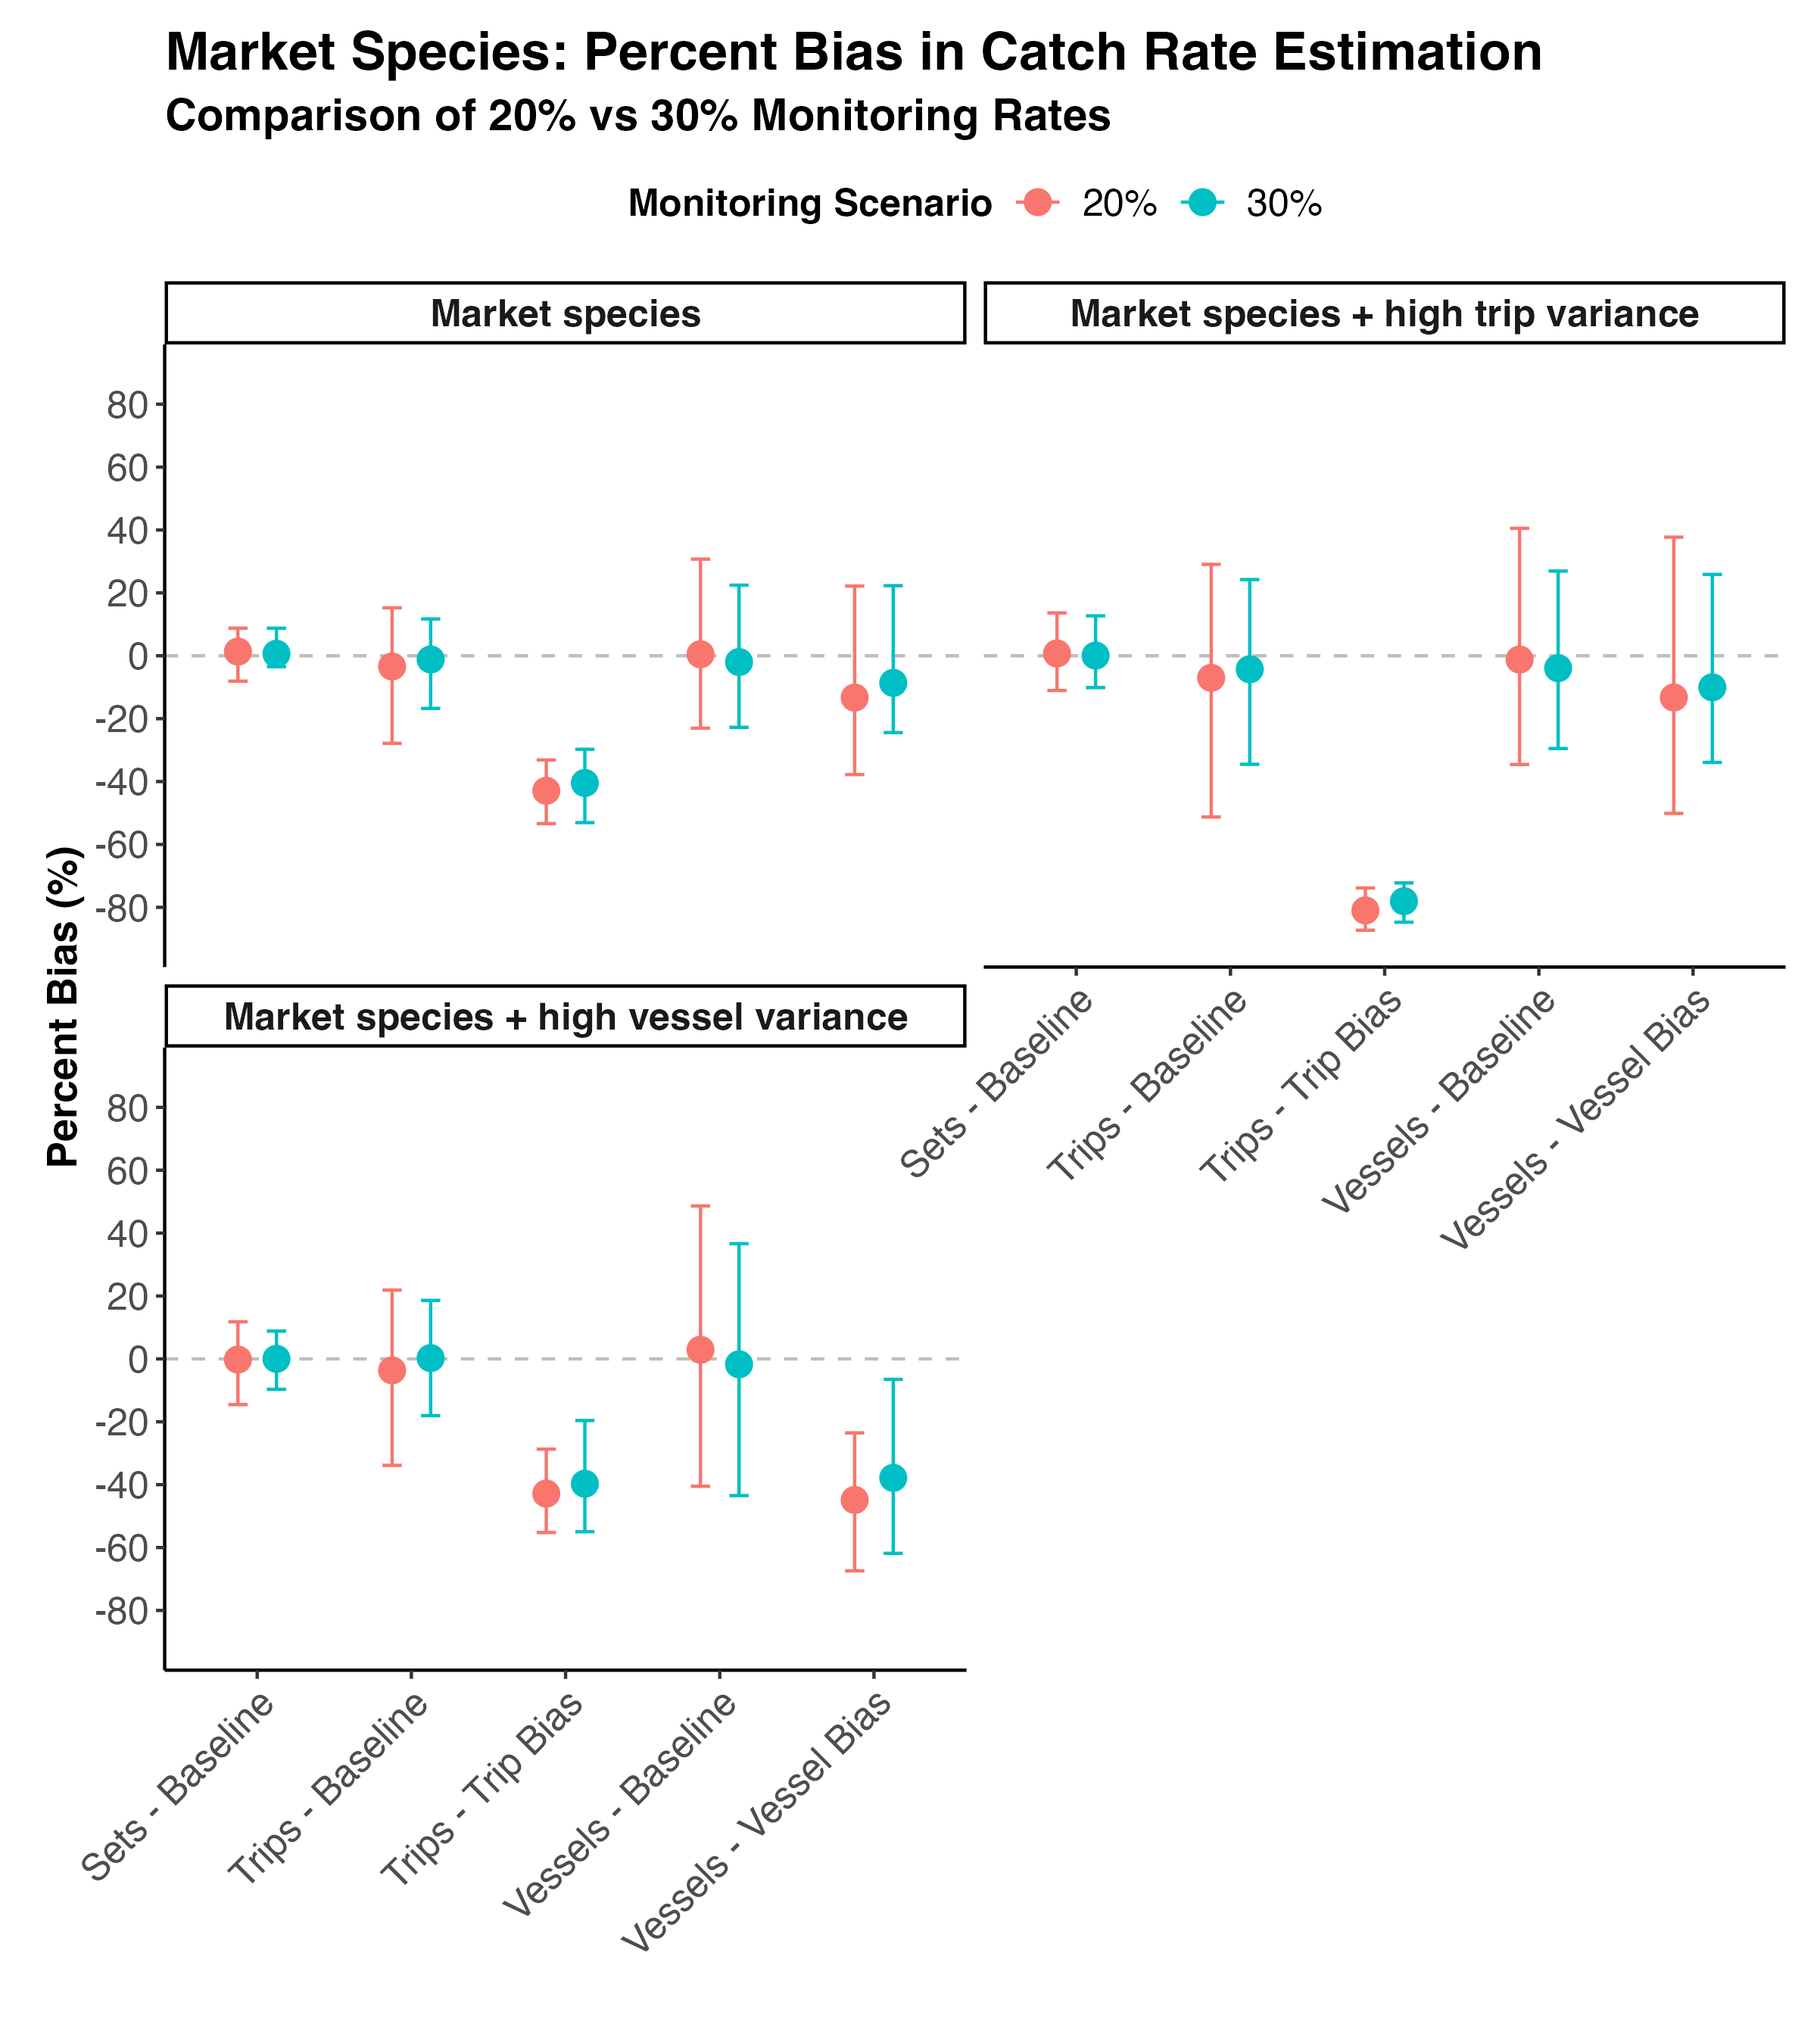
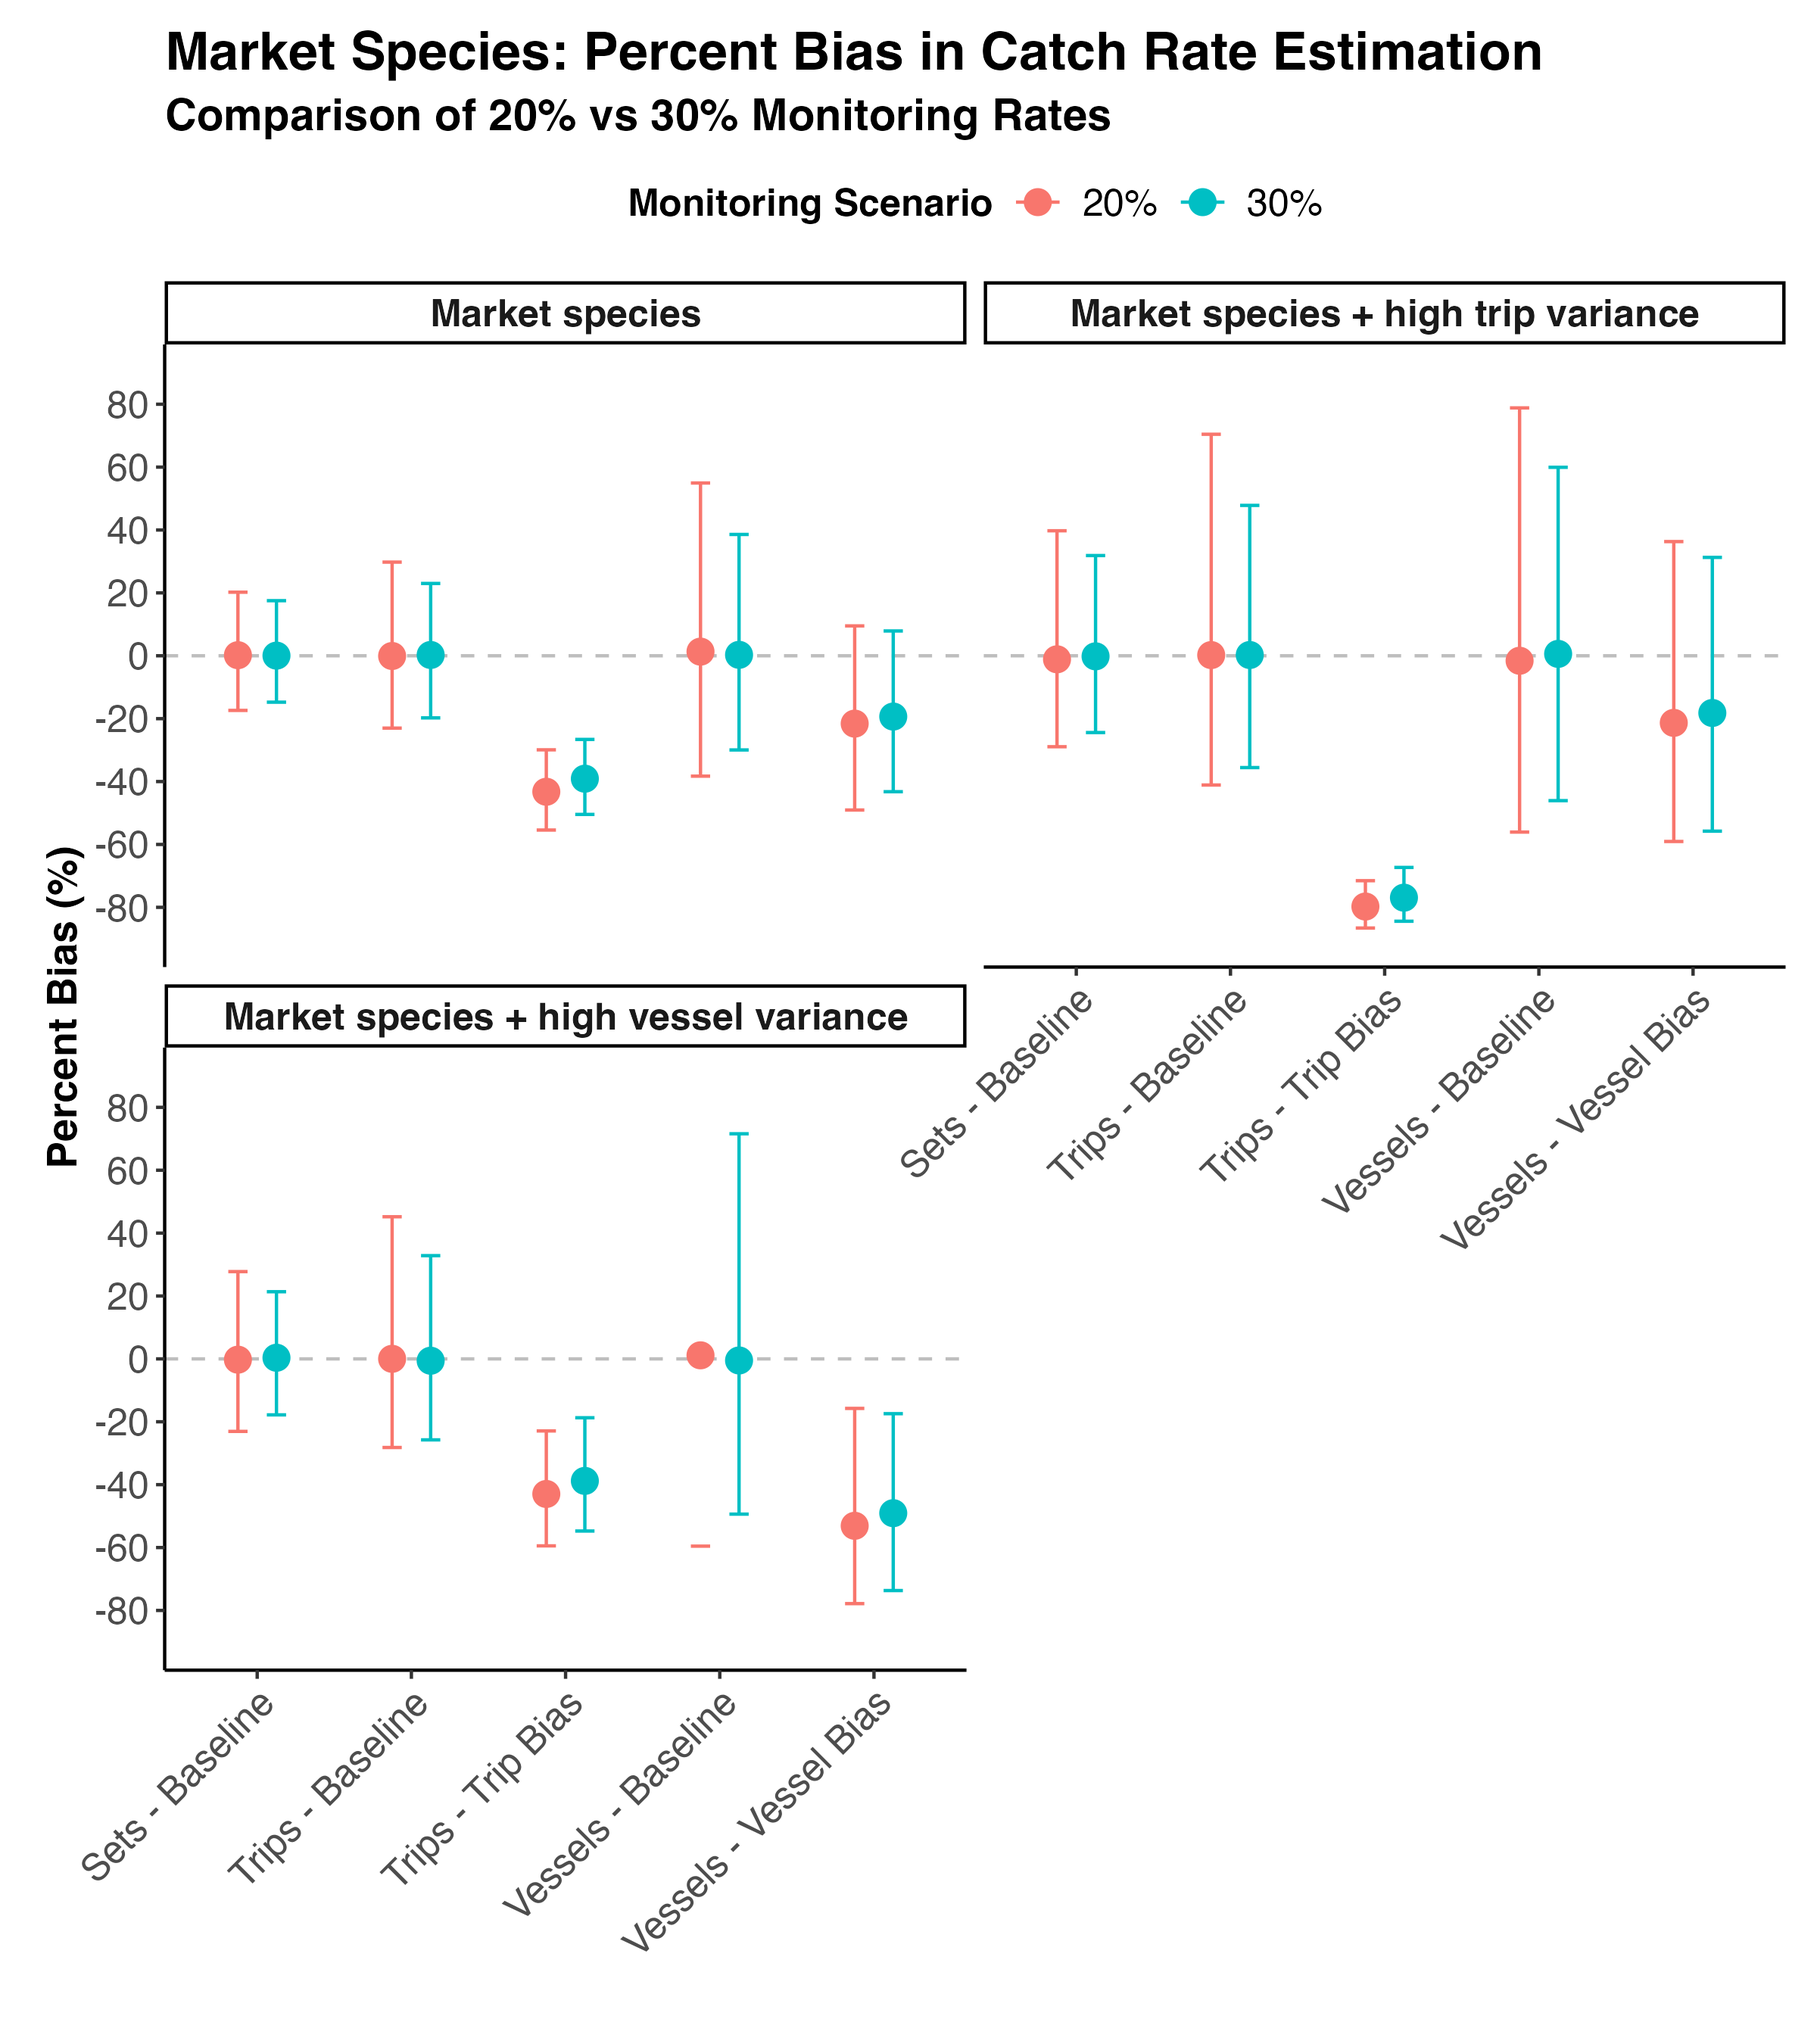
update readme file

diff --git a/README.md b/README.md
@@ -77,6 +77,7 @@ The monitoring module determines how monitoring of catches is distributed across
 - Total amount of monitoring (percentage of fishing sets monitored)
 - Distribution of monitoring across fleet components, with option for bias
 - Coverage within selected units (percentage of trips/sets monitored within selected vessels)
+- Proportion of sets to select within each monitored unit (vessel/trip)
 
 The monitoring module was formulated as follows:
 
@@ -85,7 +86,7 @@ The monitoring module was formulated as follows:
 # Strategy 1 sampling across sets
 #matrix for storing monitoring status
 M_sets = matrix(V,T,S)
-phi_sets = logit(p_monitor)
+phi_sets = logit(p_monitor * p_sets_select)
 M_sets[v,t,s] ~ dbern(inverse_logit(phi))
 
 # Strategy 2 sampling random vessels
@@ -93,14 +94,17 @@ M_vessels = matrix(V,T,S)
 phi_vessels = array(dim=c(V,T,S))
 for (v in 1:V) {
   phi_vessels[v,,] = logit(p_monitor) + bias_v * x[v]
+  # Then select p_sets_select proportion within monitored vessels
 }
 M_vessels[v,t,s] ~ dbern(inverse_logit(phi_vessels[v,t,s]))
+
 # Strategy 3: Random selection of trips within vessels
 M_trips = matrix(V,T,S)
 phi_trips = array(dim=c(V,T,S))
 for (v in 1:V) {
   for (t in 1:T[v]) {
     phi_trips[v,t,] = logit(p_monitor) + bias_factor * z[v,t]
+    # Then select p_sets_select proportion within monitored trips
   }
 }
 M_trips[v,t,s] ~ dbern(inverse_logit(phi_trips[v,t,s]))
@@ -110,6 +114,7 @@ M_trips[v,t,s] ~ dbern(inverse_logit(phi_trips[v,t,s]))
 **Parameter Explanations:**
 - `M_sets`, `M_vessels`, `M_trips`: Matrices indicating monitoring status for each set under different strategies (1 = monitored, 0 = not monitored)
 - `p_monitor`: Base proportion of sets to be monitored (e.g., 0.3 for 30% coverage)
+- `p_sets_select`: Proportion of sets to select within each monitored vessel or trip (e.g., 0.2 to select 20% of sets within monitored units)
 - `phi_sets`, `phi_vessels`, `phi_trips`: Logit-transformed probabilities of monitoring for each strategy
 - `bias_v`: Bias factor for vessel-based selection (when > 0, vessels with lower catch rates are more likely selected)
 - `bias_factor`: Bias factor for trip-based selection (when > 0, trips with lower catch rates are more likely selected)
@@ -123,9 +128,14 @@ M_trips[v,t,s] ~ dbern(inverse_logit(phi_trips[v,t,s]))
 - logit_inverse(x) = 1/(1+exp(-x)) transforms logit values back to probabilities
 
 **Distribution Strategies:**
-- Random across sets: Each set has equal probability of being monitored
-- Random across vessels: Selected vessels have all their sets monitored
-- Random across trips within vessels: Selected trips have all their sets monitored
+- Random across sets: Each set has equal probability of being monitored (p_monitor * p_sets_select)
+- Random across vessels: Selected vessels have a proportion (p_sets_select) of their sets monitored
+- Random across trips within vessels: Selected trips have a proportion (p_sets_select) of their sets monitored
+
+**p_sets_select Parameter:**
+- When p_sets_select = 1: All sets within selected vessels/trips are monitored (traditional approach)
+- When p_sets_select < 1: Only a random subset of sets within selected vessels/trips are monitored
+- This parameter allows modeling partial monitoring within selected units, which may be more realistic for electronic monitoring systems
 
 ### Catch statistic estimation
 
@@ -154,23 +164,47 @@ Note we also drafted a report, however this draft was finalized on another platf
 
 #### R Scripts
 
-1. **`1_run_simulations.R`**
+1. **`1_conceptual_figure.R`**
+   - **Purpose**: Generates conceptual figures illustrating different monitoring strategies
+   - **Usage**: 
+     ```bash
+     Rscript 1_conceptual_figure.R
+     ```
+   - Creates visualizations that explain the conceptual framework of monitoring strategies and their impact on estimated catch rates.
+
+2. **`2_run_simulations.R`**
    - **Purpose**: Main script to run the full simulation with multiple parameter sets
    - **Usage**: 
      ```bash
-     Rscript 1_run_simulations.R
+     Rscript 2_run_simulations.R
      ```
-   - This script runs simulations for each parameter set defined in `parameters.csv`, with 250 replications per set. Results are saved to CSV files in the `/outputs/` directory.
+   - This script runs simulations for each parameter set defined in `parameters-species.csv` and `parameters-monitoring.csv`, with 250 replications per set. Results are saved to CSV files in the `/outputs/` directory.
 
-2. **`2_plots.R`**
-   - **Purpose**: Creates visualizations of the simulation results
+3. **`3_plots-main.R`**
+   - **Purpose**: Creates the main visualizations of the simulation results
    - **Usage**:
      ```bash
-     Rscript 2_plots.R
+     Rscript 3_plots-main.R
      ```
-   - Generates various plots showing bias in catch rate estimation across different monitoring strategies and saves them to the `/plots/` directory.
+   - Generates the primary plots showing bias in catch rate estimation across different monitoring strategies and saves them to the `/plots/` directory.
 
-3. **`simulation_functions.R`**
+4. **`3_plots-20vs30percent.R`**
+   - **Purpose**: Creates comparative visualizations between 20% and 30% monitoring coverage
+   - **Usage**:
+     ```bash
+     Rscript 3_plots-20vs30percent.R
+     ```
+   - Generates plots comparing the performance of different monitoring strategies at 20% vs 30% coverage levels.
+
+5. **`3_plots-30_sub-sampled.R`**
+   - **Purpose**: Creates visualizations comparing full monitoring vs sub-sampled monitoring within vessels/trips
+   - **Usage**:
+     ```bash
+     Rscript 3_plots-30_sub-sampled.R
+     ```
+   - Compares scenarios with all sets monitored on 30% of vessels/trips vs 50% of sets monitored on 60% of vessels/trips.
+
+6. **`simulation_functions.R`**
    - **Purpose**: Core functions for the simulation model
    - **Usage**: Not run directly; imported by other scripts
    - Contains functions for three modules:
@@ -178,7 +212,7 @@ Note we also drafted a report, however this draft was finalized on another platf
      - Monitoring module - Implements different monitoring strategies
      - Catch statistic estimation - Calculates estimated vs true catch rates
 
-4. **`quick_run_test.R`**
+7. **`quick_run_test.R`**
    - **Purpose**: Quick test script for running a small simulation
    - **Usage**:
      ```bash
@@ -186,7 +220,7 @@ Note we also drafted a report, however this draft was finalized on another platf
      ```
    - Runs a small simulation with just 5 replications using the first parameter set for testing purposes.
 
-5. **`test_single_run.R`**
+8. **`test_single_run.R`**
    - **Purpose**: Script to verify the monitoring functions work correctly
    - **Usage**:
      ```bash
@@ -194,15 +228,15 @@ Note we also drafted a report, however this draft was finalized on another platf
      ```
    - Tests the functionality of a single simulation run using a specific parameter set.
 
-6. **`conceptual_figure.R`**
-   - **Purpose**: Generates conceptual figures illustrating different monitoring strategies
+9. **`conceptual-figure-nesting.R`**
+   - **Purpose**: Generates conceptual figures showing the nested structure of monitoring strategies
    - **Usage**:
      ```bash
-     Rscript conceptual_figure.R
+     Rscript conceptual-figure-nesting.R
      ```
-   - Creates visualizations that explain the conceptual framework of monitoring strategies.
+   - Creates visualizations that illustrate the hierarchical nesting of sets within trips within vessels.
 
-7. **`render-ms.R`**
+10. **`render-ms.R`**
    - **Purpose**: Renders the R Markdown report into a Word document
    - **Usage**:
      ```bash
@@ -212,28 +246,45 @@ Note we also drafted a report, however this draft was finalized on another platf
 
 #### Configuration and Data Files
 
-1. **`parameters.csv`**
-   - Contains parameter sets for different simulation scenarios
-   - Each row represents a different parameter set with values for fleet size, trip frequency, catch rates, etc.
+1. **`parameters-species.csv`**
+   - Contains species-specific parameter sets for different simulation scenarios
+   - Each row represents a different species parameter set with values for fleet size, trip frequency, catch rates, etc.
+
+2. **`parameters-monitoring.csv`**
+   - Contains monitoring strategy parameter sets
+   - Each row represents a different monitoring scenario with values for coverage rates, bias factors, and set selection proportions
+
+3. **`parameters.csv`** (legacy file)
+   - Contains combined parameter sets from earlier versions of the simulation
 
 #### How to Run the Complete Workflow
 
 For a complete analysis workflow, run the scripts in the following order:
 
-1. First, run the simulations:
+1. First, generate conceptual figures:
    ```bash
-   Rscript 1_run_simulations.R
+   Rscript 1_conceptual_figure.R
    ```
 
-2. Next, generate the plots:
+2. Run the simulations:
    ```bash
-   Rscript 2_plots.R
+   Rscript 2_run_simulations.R
    ```
 
-3. Finally, render the report:
+3. Generate the main plots:
    ```bash
-   Rscript render-ms.R
+   Rscript 3_plots-main.R
    ```
+
+4. Optionally, generate comparative plots:
+   ```bash
+   Rscript 3_plots-20vs30percent.R
+   Rscript 3_plots-30_sub-sampled.R
+   ```
+
+5. Finally, render the report:
+   `reportv2.qmd`
+   
 
 #### Output Files
 

diff --git a/timeline.md b/timeline.md
@@ -1,9 +1,3 @@
-TODO:
-Need to check p_sets_select is working properly (results don't look right? )
-Update documentation for p_sets_select
-Work on plots for catch missed. 
-
-
 
 For 1B: thanks for re-running the simulation. The specific real-world scenario we’re interested in is comparison of 1) monitoring 30% of vessels and reviewing 100% of sets that are monitored with 2) monitoring 30% of vessels and reviewing 20% of sets that are monitored. This is because this is a common way the MSC guidance is interpreted. Is it possible to re-run the simulation for this comparison?
 
